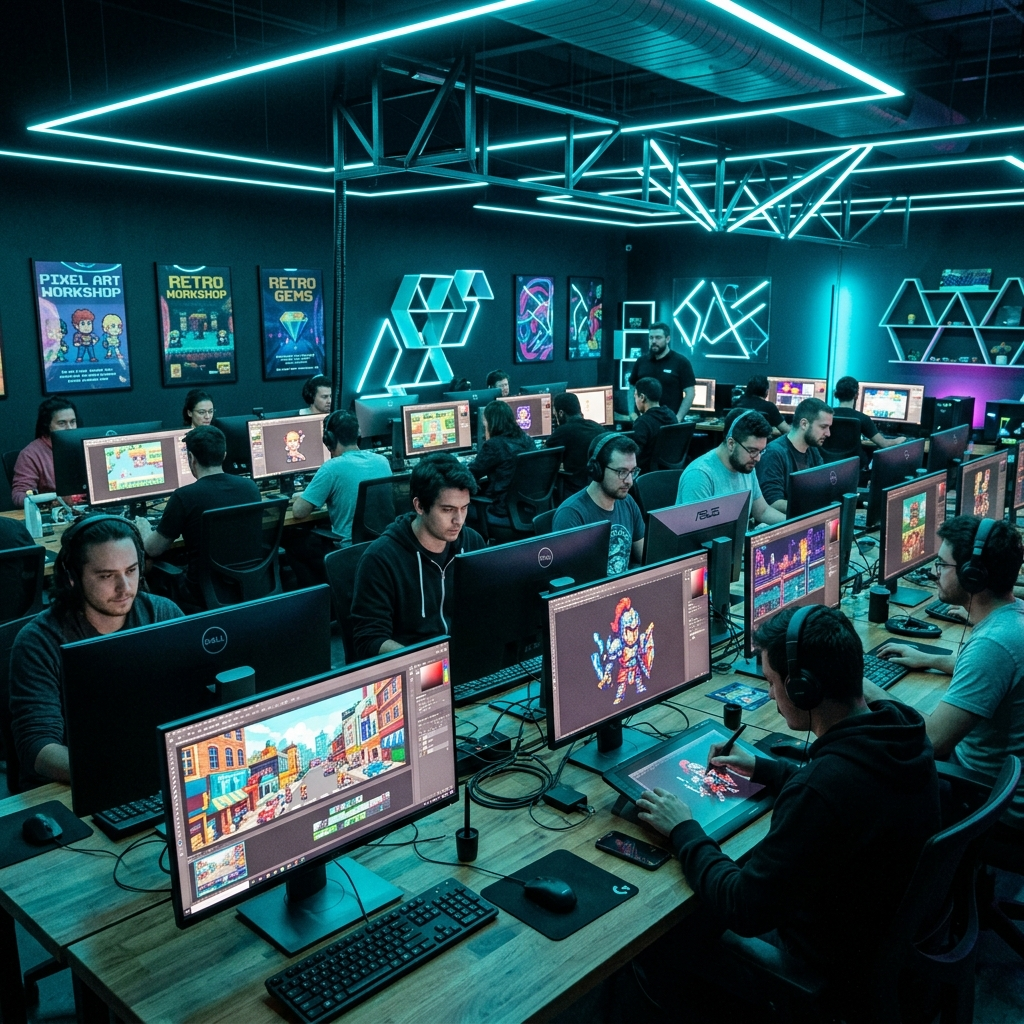
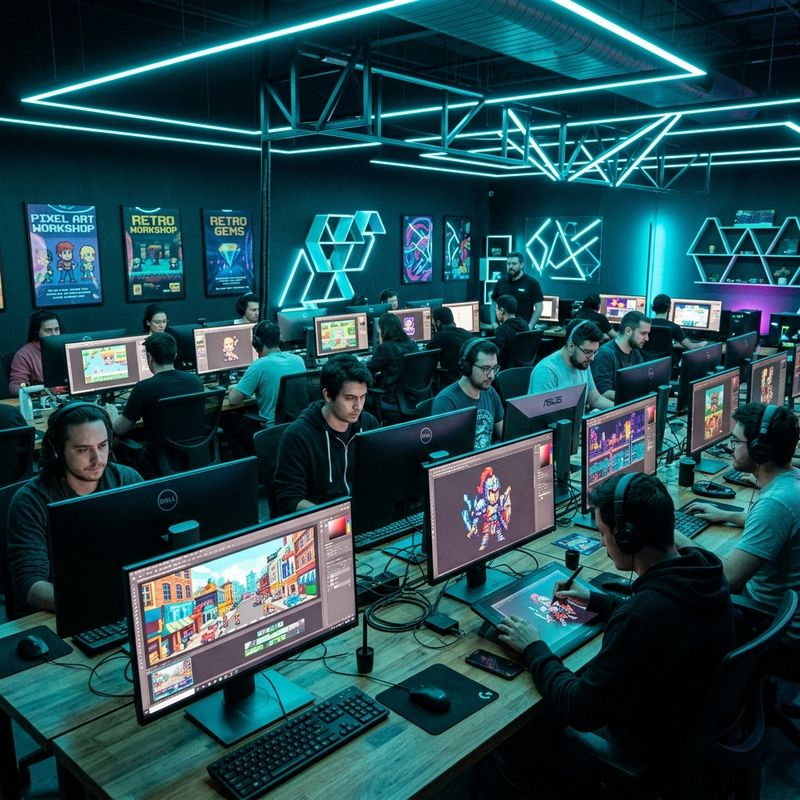
perf: compress bundled images, strip prod console logs
- Losslessly re-encode adaptive-icon.png/splash.png/icon-512.png (dims kept,
  ~35% smaller each); recompress icon.jpg/logo.jpg (~58% smaller)
- pixel.jpg (used as a fallback/placeholder, displayed at 70x70-ish) was
  1024x1024 at 965KB; resized to 800x800 max, quality 80 -> 140KB. It's
  require()'d eagerly on first paint in LandingPage + MediaViewer.
- Removed rave/food/jazz/yoga.jpg from assets/events/ — confirmed unreferenced
  anywhere in src/, and absent from the actual web build output.
- babel.config.js: strip console.log/debug/info from production builds only
  (console.warn/error kept so real failures still surface)
- maintenance_status.sql / maintenance_levels.sql: fix path_crossings column
  name (crossed_at, not created_at) found while deploying these live —
  maintenance_status() was throwing on any crossings data

Verified: `npm run build` succeeds, served dist/ locally, no console errors,
compressed assets load with fresh hashes (200 OK), console.log calls confirmed
stripped from the bundle.

Investigated but NOT changed: re-enabling web code-splitting. app.json's
web.output: "static" is Expo Router's SSG mode specifically (requires
expo-router as the entry point, which this app doesn't use — manual tab
switcher in App.js) — confirmed via a failed build attempt
("Unable to resolve module expo-router/node/render.js"), then reverted.
Documented in lazyScreens.js so this isn't retried blind next time.

diff --git a/src/screens/lazyScreens.js b/src/screens/lazyScreens.js
@@ -10,9 +10,16 @@
 // Dev never split, so it hid the bug entirely.
 //
 // Static requires put every screen in the one bundle that actually loads —
-// correctness over the ~0.7 MB the split saved. Revisiting code-splitting for
-// web means switching to `web.output: "static"` first, so the async-chunk
-// loader actually exists.
+// correctness over the ~0.7 MB the split saved.
+//
+// Revisited 2026-08-07: `web.output: "static"` is NOT a generic multi-chunk
+// SPA mode — in Expo SDK it specifically means Expo Router's static-site
+// generation, and requires expo-router as the app's entry point ("Unable to
+// resolve module expo-router/node/render.js" when tried). This app uses a
+// manual tab-switcher (App.js's screenFor/renderScreen), not expo-router, so
+// enabling it means adopting expo-router first — a real migration, not a flag
+// flip. Not attempting that here. If code-splitting web is revisited, start
+// there, not with this file.
 //
 // LandingPage / ChatsScreen / NotificationsScreen were never here: The Drop is
 // the first paint, and the other two export shell-level unread hooks that run

diff --git a/babel.config.js b/babel.config.js
@@ -2,8 +2,14 @@
 // default; making it explicit here is what Jest's babel-jest transform needs
 // to parse React Native / JSX / Flow syntax. App build behaviour is unchanged.
 module.exports = function (api) {
-  api.cache(true);
+  const isProd = api.env('production');
+  api.cache.using(() => isProd);
   return {
     presets: ['babel-preset-expo'],
+    // Prod-only: drop console.log/debug/info (keep warn/error so real
+    // failures still surface in the browser console / crash reports).
+    plugins: isProd
+      ? [['transform-remove-console', { exclude: ['error', 'warn'] }]]
+      : [],
   };
 };
